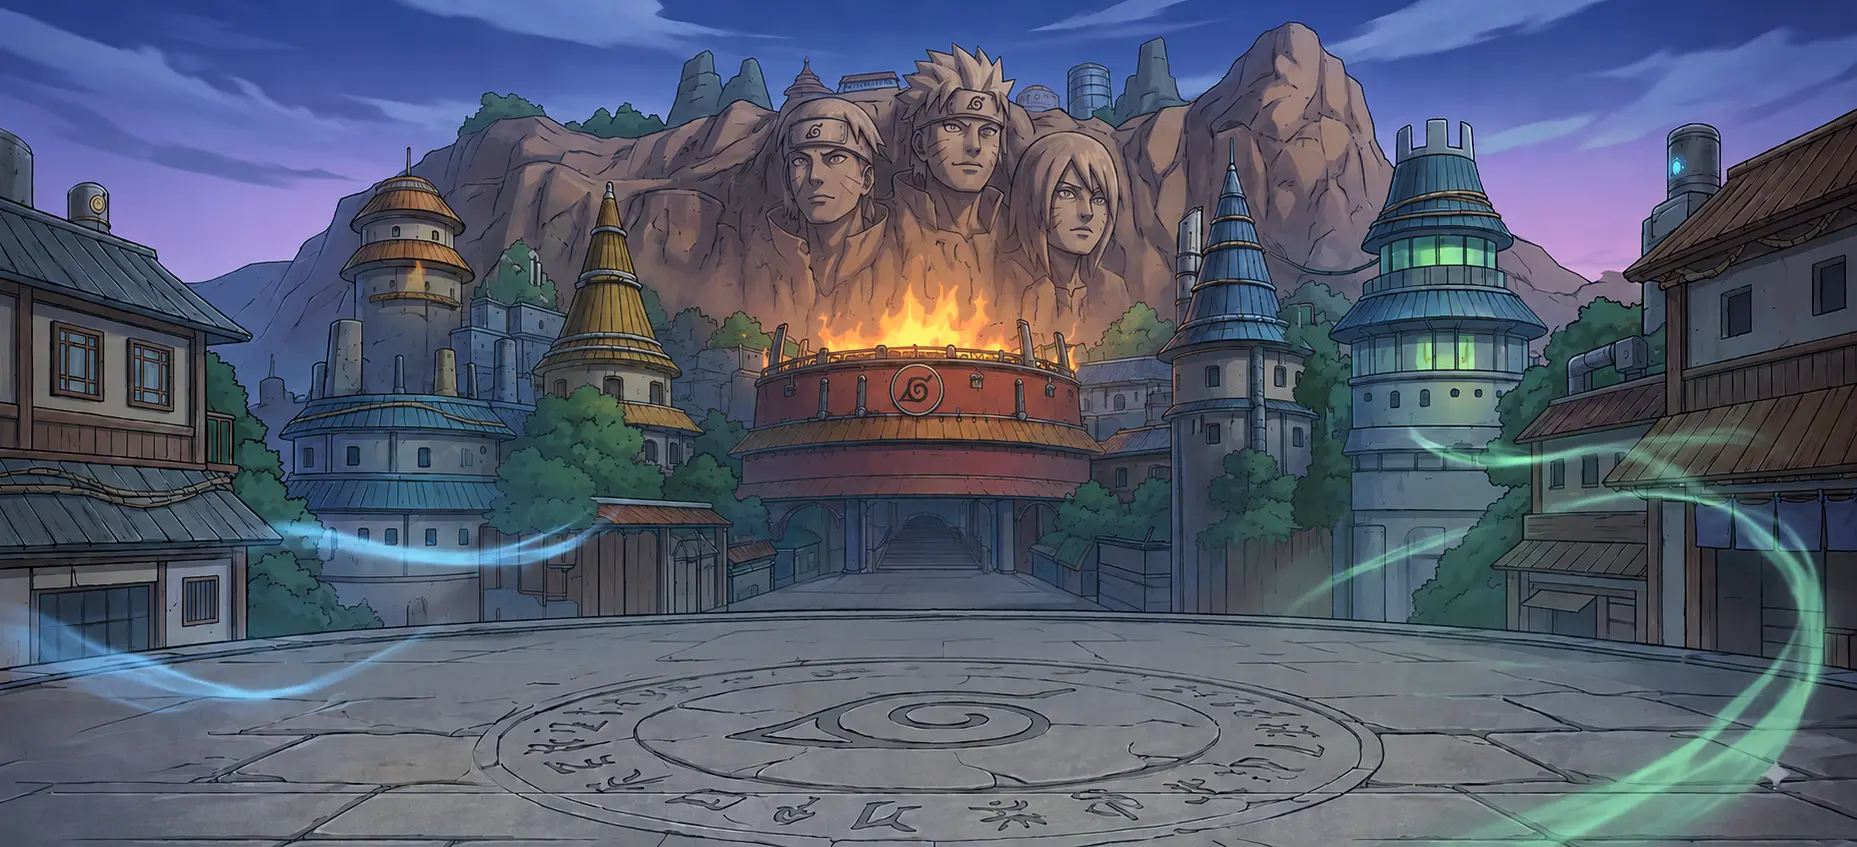
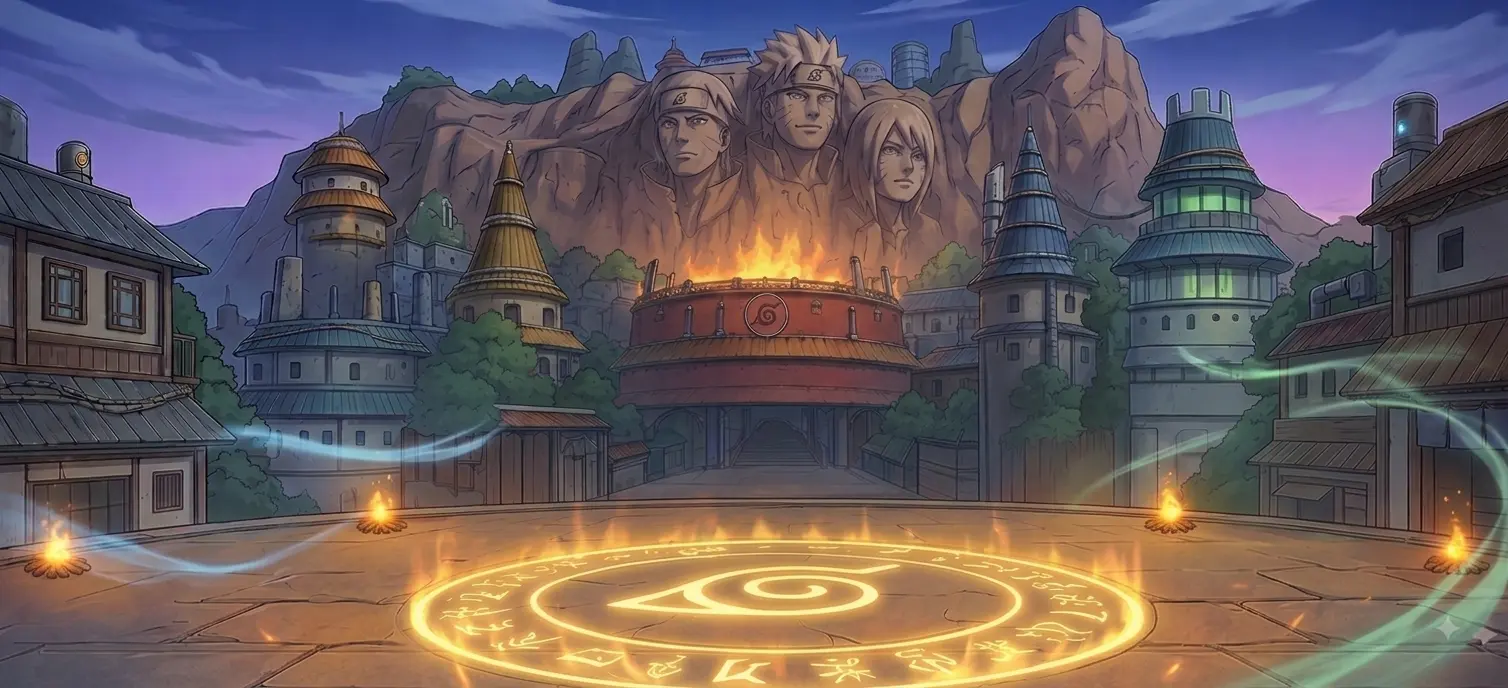
portal botão

diff --git a/src/components/MainMenu.tsx b/src/components/MainMenu.tsx
@@ -4,7 +4,7 @@
  */
 
 import React, { useState } from 'react';
-import { Volume2, VolumeX, Sword, Play, HelpCircle, Shield, Award, LogOut, Calendar, ShoppingBag, Sparkles, User } from 'lucide-react';
+import { Volume2, VolumeX, Sword, HelpCircle, Shield, Award, LogOut, Calendar, ShoppingBag, Sparkles, User } from 'lucide-react';
 import { motion, AnimatePresence } from 'motion/react';
 import { UserProfile } from '../types';
 import EventsModal from './EventsModal';
@@ -73,9 +73,11 @@ export default function MainMenu({ onStartGame, isMuted, onToggleMute, playClick
             <Sword className="w-6 h-6 text-slate-950 stroke-[2.5]" />
           </div>
           <div>
-            <h1 className="text-lg font-black tracking-tight uppercase bg-gradient-to-r from-white via-slate-100 to-orange-400 bg-clip-text text-transparent">
-              NARUTO ARENA
-            </h1>
+            <img
+              src="/static/img/logo.webp"
+              alt="NARUTO ARENA"
+              className="menu-logo w-auto"
+            />
             <span className="font-mono text-[10px] tracking-wider text-orange-400 uppercase font-bold block leading-none">Engine v1.0</span>
           </div>
         </div>
@@ -166,9 +168,11 @@ export default function MainMenu({ onStartGame, isMuted, onToggleMute, playClick
             {t('Arena Tática Lendária 3v3', '3v3 Legendary Tactical Arena')}
           </div>
 
-          <h1 className="text-6xl md:text-8xl font-black tracking-tighter bg-gradient-to-b from-white via-slate-100 to-slate-400 bg-clip-text text-transparent uppercase">
-            NARUTO <span className="text-transparent bg-clip-text bg-gradient-to-r from-orange-500 to-amber-500">ARENA</span>
-          </h1>
+          <img
+            src="/static/img/logo.webp"
+            alt="NARUTO ARENA"
+            className="menu-logo-central w-auto mx-auto"
+          />
 
           <p className="text-slate-400 text-base md:text-lg max-w-2xl mx-auto font-light leading-relaxed">
             {t(
@@ -283,13 +287,45 @@ export default function MainMenu({ onStartGame, isMuted, onToggleMute, playClick
             )}
 
             {/* ENTRAR NA ARENA CTA BUTTON */}
-            <button
-              onClick={handleStart}
-              className="p-3.5 px-8 bg-gradient-to-r from-orange-600 to-amber-500 text-slate-950 font-mono font-black rounded-2xl flex items-center gap-2 hover:brightness-110 active:scale-95 transition-all shadow-xl shadow-orange-600/25 border border-orange-400 cursor-pointer text-sm uppercase tracking-wider"
-            >
-              <Play className="w-5 h-5 fill-slate-950 text-slate-950" />
-              {t('Entrar na Arena', 'Enter the Arena')}
-            </button>
+            <div className="relative">
+              {/* PORTAL ANIMATION */}
+              <div className="absolute -inset-10 pointer-events-none flex items-center justify-center" aria-hidden>
+                <div className="absolute w-56 h-56 rounded-full bg-orange-500/20 blur-3xl animate-pulse" />
+                <div
+                  className="absolute w-56 h-56 rounded-full border-2 border-dashed border-amber-400/40 animate-spin"
+                  style={{ animationDuration: '9s', animationDirection: 'reverse' }}
+                />
+                <div
+                  className="absolute w-44 h-44 rounded-full border-4 border-orange-500/40 border-t-orange-400 border-r-transparent border-b-orange-600/30 border-l-transparent animate-spin"
+                  style={{ animationDuration: '3s' }}
+                />
+                <div
+                  className="absolute w-32 h-32 rounded-full border-2 border-orange-600/60 border-b-transparent animate-spin"
+                  style={{ animationDuration: '1.6s' }}
+                />
+                <div
+                  className="absolute w-48 h-48 rounded-full opacity-40 animate-spin"
+                  style={{
+                    animationDuration: '6s',
+                    background:
+                      'conic-gradient(from 0deg, transparent 0%, rgba(249,115,22,0.5) 18%, transparent 38%, rgba(251,191,36,0.45) 58%, transparent 78%, rgba(249,115,22,0.35) 95%, transparent 100%)',
+                  }}
+                />
+              </div>
+              <button
+                onClick={handleStart}
+                className="entrar-na-arena-btn relative text-slate-900 font-mono font-black flex items-center justify-center hover:brightness-110 active:scale-95 transition-all cursor-pointer text-sm uppercase tracking-wider shadow-xl"
+              >
+                <img
+                  src="/static/img/entrar-na-arena.webp"
+                  alt={t('Entrar na Arena', 'Enter the Arena')}
+                  className="h-full w-auto"
+                />
+                <span className="entrar-na-arena-label absolute inset-0 flex items-center justify-center pointer-events-none">
+                  {t('Entrar na Arena', 'Enter the Arena')}
+                </span>
+              </button>
+            </div>
 
             {/* COMO JOGAR BUTTON */}
             <button

diff --git a/src/index.css b/src/index.css
@@ -28,6 +28,54 @@
 }
 
 /* =========================================================
+   CLASSE ÚNICA DO TAMANHO DO BOTÃO ENTRAR NA ARENA (.entrar-na-arena-btn)
+   =========================================================
+   Para ajustar o tamanho do botão "Entrar na Arena" (imagem entrar-na-arena.webp),
+   altere o valor de height abaixo. A largura acompanha a proporção da imagem.
+   ========================================================= */
+.entrar-na-arena-btn {
+     height: 128px;
+    width: 302px;
+}
+
+/* =========================================================
+   POSIÇÃO DO TEXTO DO BOTÃO ENTRAR NA ARENA (.entrar-na-arena-label)
+   =========================================================
+   O texto fica centralizado por padrão. Para mover o texto na imagem,
+   ajuste os valores de transform (translateX/translateY) abaixo.
+   Exemplos:
+     - Descer 4px:  transform: translateY(4px);
+     - Subir 2px:   transform: translateY(-2px);
+     - Mover à direita: transform: translateX(8px);
+   ========================================================= */
+.entrar-na-arena-label {
+         transform: translate(0px, -6px);
+    font-weight: 1000;
+    font-family: arial;
+    font-size: 13px;
+}
+
+/* =========================================================
+   CLASSE ÚNICA DO TAMANHO DA LOGO CENTRAL DO MENU (.menu-logo-central)
+   =========================================================
+   Para ajustar o tamanho da logo central (logo.webp), altere o
+   valor de height abaixo. A largura acompanha a proporção.
+   ========================================================= */
+.menu-logo-central {
+  height: 90px;
+}
+
+/* =========================================================
+   CLASSE ÚNICA DO TAMANHO DA LOGO DO MENU (.menu-logo)
+   =========================================================
+   Para ajustar o tamanho da logo (logo.webp) do menu inicial,
+   altere o valor de height abaixo. A largura acompanha a proporção.
+   ========================================================= */
+.menu-logo {
+  height: 36px;
+}
+
+/* =========================================================
    CLASSE ÚNICA DO TAMANHO DO BOTÃO COMO JOGAR (.como-jogar-btn)
    =========================================================
    Para ajustar o tamanho do botão "Como Jogar" (imagem como-jogar.webp),
